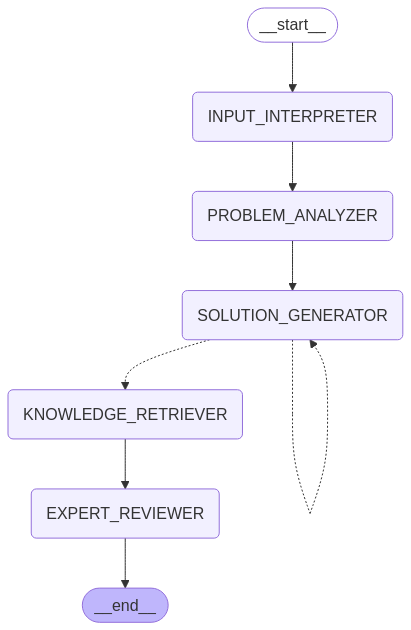
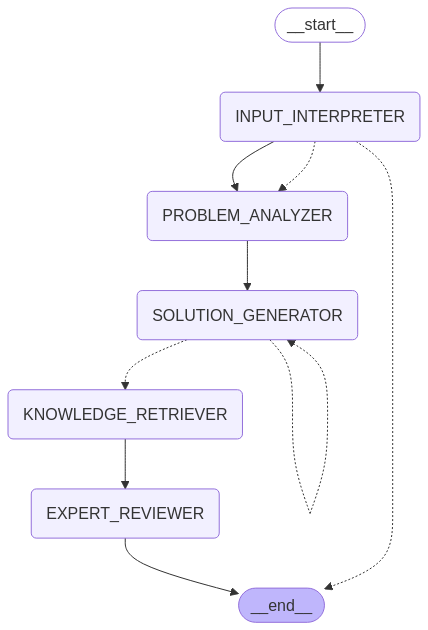
feat: Agent graph 수정

diff --git a/back/agent/input_agent.py b/back/agent/input_agent.py
@@ -36,6 +36,7 @@ class InputAgent(Agent):
             - Advanced: 프레임워크/도구 관련 전문 용어 사용
             
             답변 규칙
+            - 질문 요약은 255자 이내로 제공한다.
             - 분류 정보는 각각 가장 일치하는 1개 만 골라야 한다.
             - 일치하는 분야가 없을 경우 답변하지 않는다. 다만, 도메인, 언어는 필수로 작성한다.
             - 답변은 Json 형태로 제공한다.
@@ -50,6 +51,8 @@ class InputAgent(Agent):
                 }},
                 "level": "Intermediate"
             }})
+            - 만약 프로그래밍 관련 질문이 아니라면, 답변이 불가능하다 말해줘.
+            (예시: {{"isNotProgramingQuestion": "해당 질문은 프로그래밍 질문이 아니라 답변이 어렵습니다."}})
             """
 
     def _update_answer_state(self, state: AgentState) -> AgentState:
@@ -59,6 +62,14 @@ class InputAgent(Agent):
         response = state["response"]
         data = json.loads(response)
 
+        if data["isNotProgramingQuestion"]:
+            new_answer_state = state["answer_state"]
+
+            new_answer_state["isNotProgramingQuestion"] = data[
+                "isNotProgramingQuestion"
+            ]
+            return {**state, "answer_state": new_answer_state}
+
         new_answer_state = state["answer_state"]
 
         new_answer_state["summary"] = data["summary"]
@@ -66,8 +77,3 @@ class InputAgent(Agent):
         new_answer_state["level"] = data["level"]
 
         return {**state, "answer_state": new_answer_state}
-
-
-if __name__ == "__main__":
-    test = InputAgent("test")
-    print(test._create_prompt({"question": "test"}))

diff --git a/back/graph/graph.py b/back/graph/graph.py
@@ -1,11 +1,11 @@
 from langgraph.graph import StateGraph, END
 
-from core.state import AnswerState, AgentType
-from agent.input_agent import InputAgent
-from agent.generator_agent import GeneratorAgent
 from agent.analyzer_agent import AnalyzerAgent
+from agent.generator_agent import GeneratorAgent
+from agent.input_agent import InputAgent
 from agent.retriever_agent import RetrieverAgent
 from agent.review_agent import ReviewerAgent
+from core.state import AnswerState, AgentType
 
 
 def create_agent_graph(k: int = 3, session_id: str = ""):
@@ -27,6 +27,11 @@ def create_agent_graph(k: int = 3, session_id: str = ""):
     workflow.set_entry_point(AgentType.INPUT)
 
     workflow.add_edge(AgentType.INPUT, AgentType.ANALYZER)
+    workflow.add_conditional_edges(
+        AgentType.INPUT,
+        _is_question_about_programing,
+        [END, AgentType.ANALYZER],
+    )
     workflow.add_edge(AgentType.ANALYZER, AgentType.GENERATOR)
 
     workflow.add_conditional_edges(
@@ -39,6 +44,12 @@ def create_agent_graph(k: int = 3, session_id: str = ""):
     workflow.add_edge(AgentType.REVIEWER, END)
 
     return workflow.compile()
+
+
+def _is_question_about_programing(state: AnswerState):
+    if state["isNotProgramingQuestion"]:
+        return END
+    return AgentType.ANALYZER
 
 
 def _is_solution_generate_end(state: AnswerState):
@@ -57,6 +68,6 @@ if __name__ == "__main__":
 
     graph_image = graph.get_graph().draw_mermaid_png()
 
-    output_path = "agent_graph.png"
+    output_path = "../agent_graph.png"
     with open(output_path, "wb") as f:
         f.write(graph_image)

diff --git a/back/db/models.py b/back/db/models.py
@@ -1,0 +1,36 @@
+import datetime
+
+from sqlalchemy import Column, Integer, String, Text, DateTime
+
+from db.database import Base
+
+
+class Question(Base):
+    """
+    답변 결과 DB
+    - question: 사용자 질문
+    - messages: 메시지 이력
+    - level: 예측한 기술수준
+    - summary: 질문 요약
+    - classification: 질문 분야
+    - problems: 예상 원인 리스트
+    - solutions: 예상 원인 솔루션 리스트
+    - study_tips: 추가 학습 추천 내용
+    - docs: RAG 검색 결과
+    - contexts: RAG 검색 컨텍스트
+    """
+
+    __tablename__ = "questions"
+
+    id = Column(Integer, primary_key=True, index=True)
+    question = Column(Text, nullable=False)
+    message = Column(Text, nullable=False)
+    level = Column(String(20), nullable=False)
+    summary = Column(String(255), nullable=False)
+    classification = Column(Text, nullable=False)
+    problems = Column(Text, nullable=False)
+    solutions = Column(Text, nullable=False)
+    study_tips = Column(Text, nullable=False)
+    docs = Column(Text, nullable=False)
+    created_time = Column(DateTime, default=datetime.datetime.now)
+    updated_time = Column(DateTime, default=datetime.datetime.now)

diff --git a/back/core/state.py b/back/core/state.py
@@ -20,6 +20,7 @@ class AnswerState(TypedDict):
 
     question: str
     messages: List[Dict]
+    isNotProgramingQuestion: str
     level: str
     summary: str
     classification: Dict[str, str]
